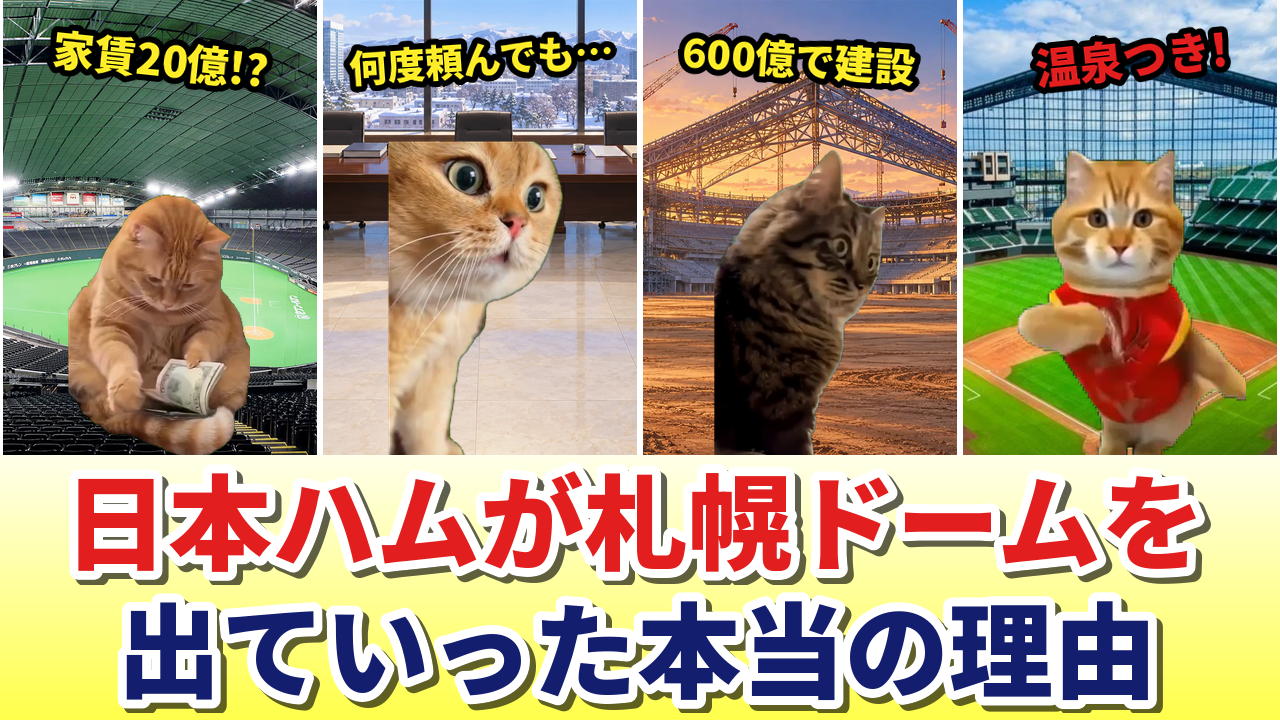
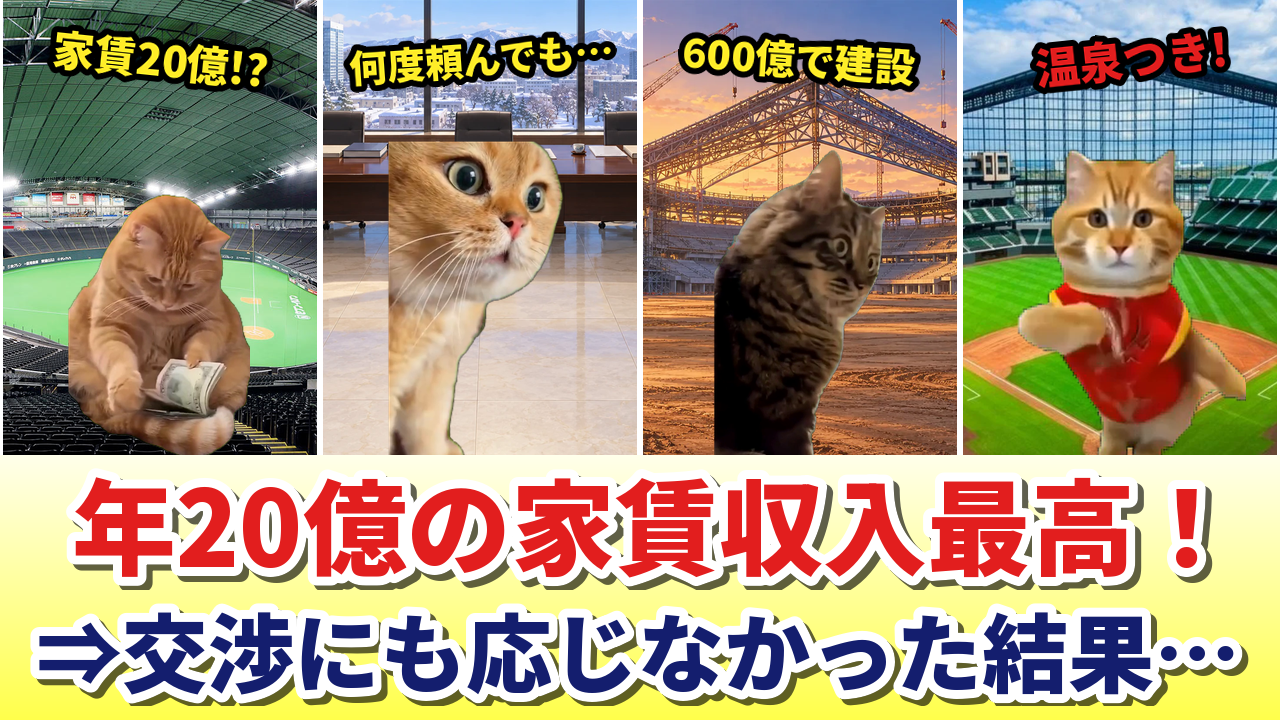
エスコンのサムネB：「年20億の家賃収入最高！／⇒交渉にも応じなかった結果…」に
Claude-Session: https://claude.ai/code/session_011g9CsrfFD5YswfNSvNDW39

Changed region(s): [[0.0, 0.6417, 1.0, 1.0]]

diff --git a/catmeme/make_thumb_escon_sushiro.py b/catmeme/make_thumb_escon_sushiro.py
@@ -37,7 +37,7 @@ def escon():
               ("bg31_escon_inside", [("excited_hodomoe_city_cat", 1.0, 160, 470, 330, False)])],
              [("txt", "家賃20億!?", 160, 60, 42, Y, -6), ("txt", "何度頼んでも…", 480, 60, 38, Y, 4),
               ("txt", "600億で建設", 800, 60, 40, Y, -4), ("txt", "温泉つき!", 1130, 60, 44, R, 6)],
-             [("日本ハムが札幌ドームを", R)], [("出ていった本当の理由", NV)])
+             [("年20億の家賃収入最高！", R)], [("⇒交渉にも応じなかった結果…", NV)])   # 10/31 ユーザー指定
     T.type_c("31_escon_thumb_c.png", "bg31_escon_inside",
              [("surprise_big_pupils_cat", 1.0, 1040, 620, 470, False), ("money_counting_orange_cat", 1.0, 250, 640, 360, False)],
              "家賃が高すぎて球場を建てた球団", "600億!?", zoom=1.05)
